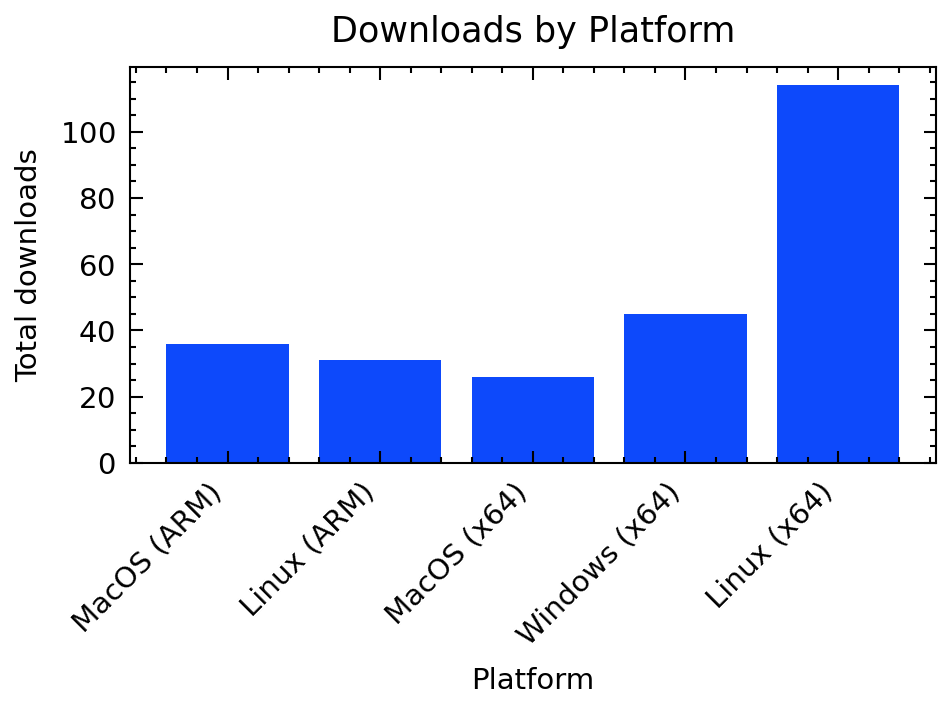
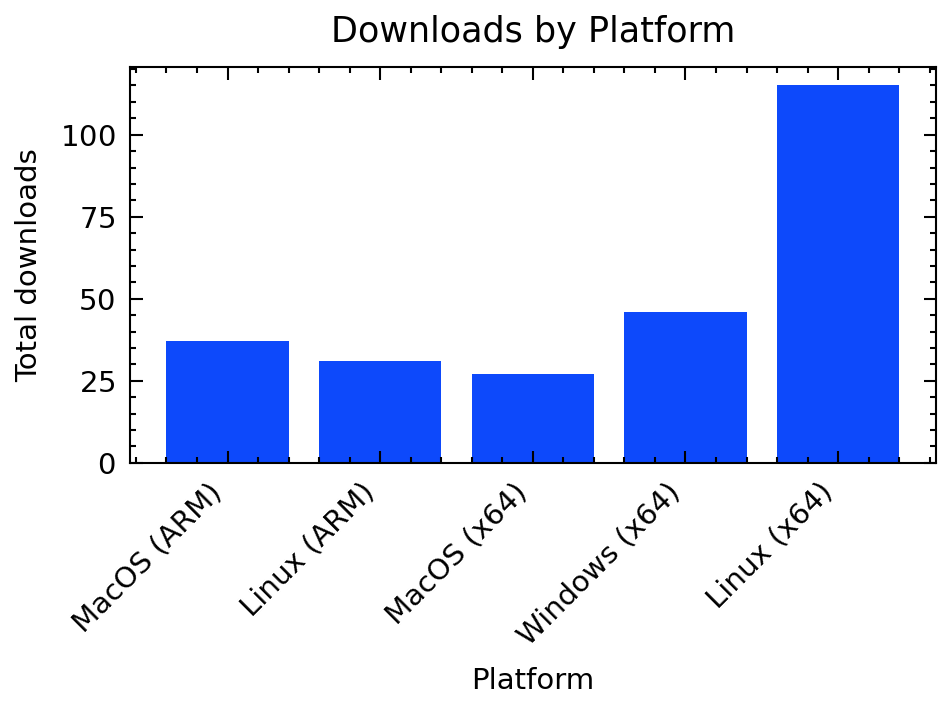
Updated Metrics data

diff --git a/README.md b/README.md
@@ -4,7 +4,7 @@
 SciWIn-Client helps users creating **Computational Workflows** in CWL. Detailed Information about SciWIn-Client can be found in the [GitHub Repository](https://github.com/fairagro/m4.4_sciwin_client). The Metrics shown below have been calculated using the GitHub API. Presentation is done via a CWL Workflow and the scripts in this repository.
 
 ## Downloads by Version
-SciWIn-Client currently has about 252 overall downloads across all versions and operating systems. The lastest version v1.0.0 currently has 57 downloads.
+SciWIn-Client currently has about 256 overall downloads across all versions and operating systems. The lastest version v1.0.0 currently has 57 downloads.
 
 
 ![downloads by version](release.png)
@@ -15,19 +15,19 @@ SciWIn-Client currently has about 252 overall downloads across all versions and 
 | v1.0.0 | 57|
 | v0.8.0 | 34|
 | v0.7.0 | 21|
-| v0.6.1 | 14|
+| v0.6.1 | 16|
 | v0.6.0 | 4|
 | v0.5.2 | 17|
 | v0.5.1 | 11|
 | v0.5.0 | 11|
-| v0.4.0 | 12|
-| v0.3.0 | 22|
+| v0.4.0 | 13|
+| v0.3.0 | 23|
 | v0.2.0 | 8|
 | v0.1.0 | 41|
 
 
 ## Downloads by Operating System
-SciWIn-Client is used on all major operating systems. There are 145 downloads of the Linux executable, 45 downloads of the Windows executable and 62 downloads of the Mac OS executable.
+SciWIn-Client is used on all major operating systems. There are 146 downloads of the Linux executable, 46 downloads of the Windows executable and 64 downloads of the Mac OS executable.
 
 
 ![downloads by platform](platform.png)
@@ -35,15 +35,15 @@ SciWIn-Client is used on all major operating systems. There are 145 downloads of
 
 | Platform | Downloads |
 |---------|-----------|
-| MacOS (ARM) | 36|
+| MacOS (ARM) | 37|
 | Linux (ARM) | 31|
-| MacOS (x64) | 26|
-| Windows (x64) | 45|
-| Linux (x64) | 114|
+| MacOS (x64) | 27|
+| Windows (x64) | 46|
+| Linux (x64) | 115|
 
 
 ## Historical Download Chart
-The historical download chart can be viewed below. It is shown how the 252 overall downloads progressed over time by using the commited data of this repository.
+The historical download chart can be viewed below. It is shown how the 256 overall downloads progressed over time by using the commited data of this repository.
 
 
 ![downloads by date](history.png)
